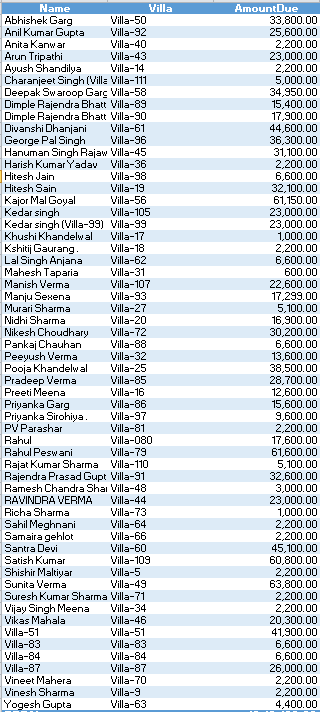
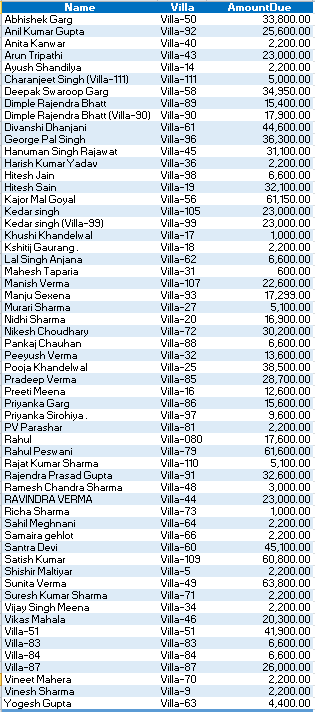
ok

diff --git a/MonthlyCreditDebit.html b/MonthlyCreditDebit.html
@@ -158,6 +158,7 @@
         list.push("Electric pole light [26 Sep],Service,-14700,D");
         list.push("Janamashtmi [04 Sep],Cultural,-14334,D");
         list.push("Ganesh Chaturthi [14 Sep],Cultural,-2415,D");
+        list.push("B.R.K. Mineral water [24 Sep],Service,-23100,D");
  
          generateTable(list)
          SetBalanceColor();
@@ -178,11 +179,17 @@
         list.push("Electricity bill_1 [18 Oct],Service,-22877,D");
         list.push("ClubHouse STP cleaning [8 Oct],Service,-7200,D");
         list.push("Nagar Nigam gadi [23 Oct],Service,-4000,D");
-        list.push("Ramavatar[5 Oct],Service,-10800,D");
+        list.push("Water bottles (300+300) [13 Oct],Service,-300,D");
+        list.push("Cleaning Items [13 Oct],Service,-1900,D");
+        list.push("Ramavatar [5 Oct],Service,-11100,D");
+        list.push("STP cleaning Old [5 Oct],Service,-5600,D");
         list.push("NSM Service Security Gate 2 and 3[8 Oct],Service,-35903,D");
         list.push("Security Gate 1 [8 Oct],Service,-42768,D");
         list.push("STP Pool [8 Oct],Service,-44550,D");
-        list.push("Dussehra [20 Oct],Cultural,-12775,D");
+        list.push("Dussehra [20 Oct],Cultural,-13775,D");
+        list.push("Decoration item shop [20 Oct],Cultural,1500,C");
+        list.push("Camera AMC Q1 [17 Oct],Service,-3000,D");
+        list.push("Camera swith and installation [23 Oct],Service,-3750,D");
  
          generateTable(list)
          SetBalanceColor();
